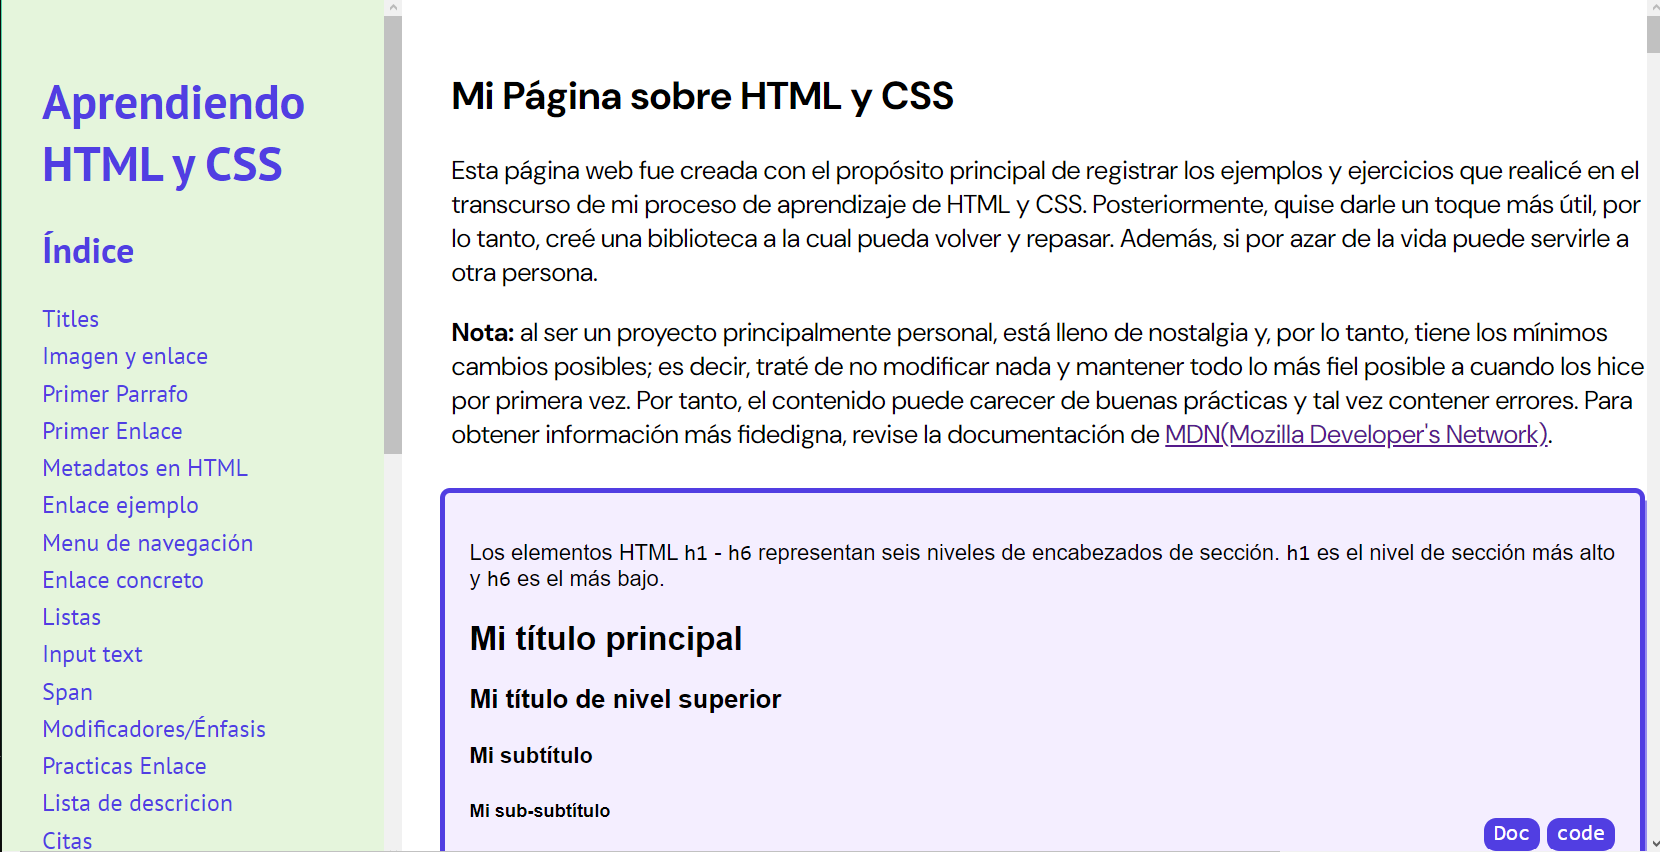
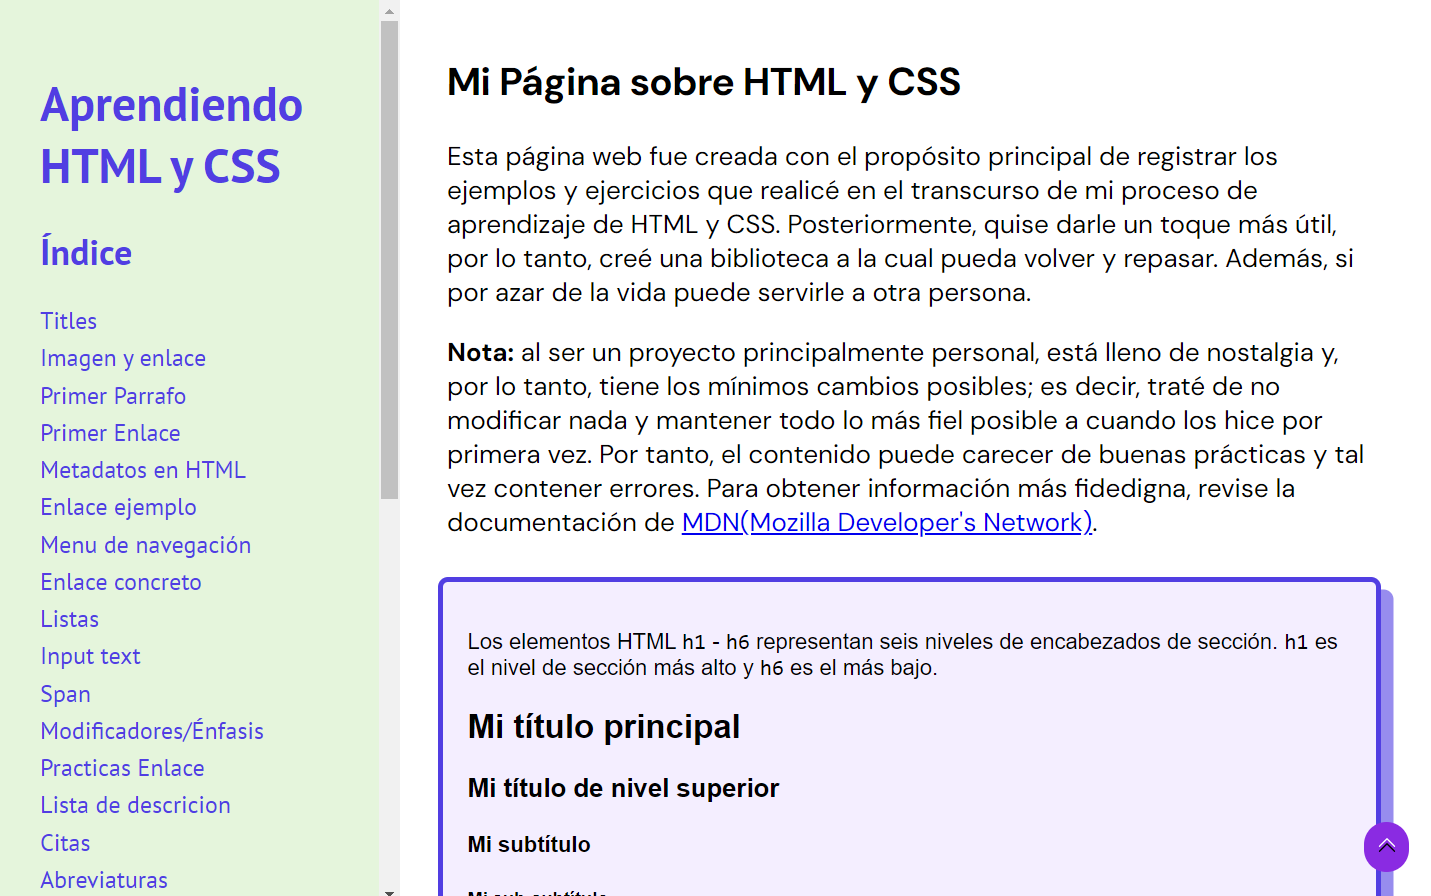
update imagens

diff --git a/index.html b/index.html
@@ -223,6 +223,8 @@
                         <li>CSS</li>
                         <li>JS</li>
                         <li>HTML</li>
+                        <li><a href="https://www.npmjs.com/package/laxxoframework" target="_blank" rel="noopener noreferrer">npm</a></li>
+                        <li>VS-code</li>
                     </ul>
                     <div class="icon-proyect">
                         <a href="https://github.com/Laxxoby/LaxxoFramework" target="_blank" rel="noopener noreferrer">
